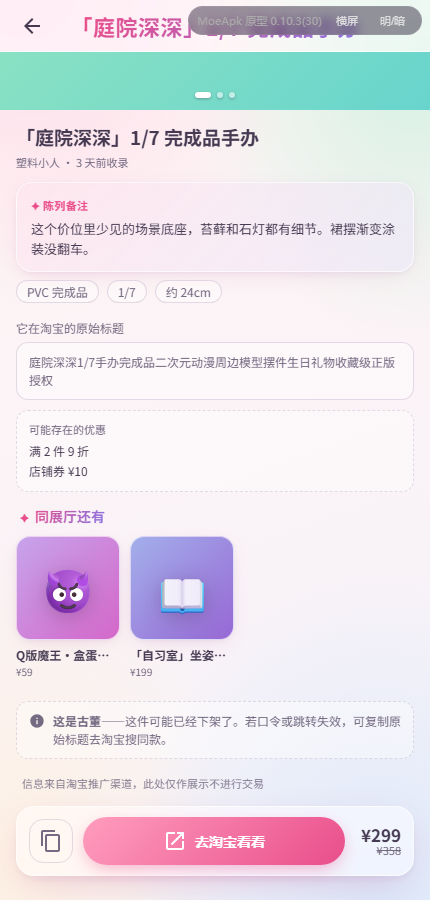
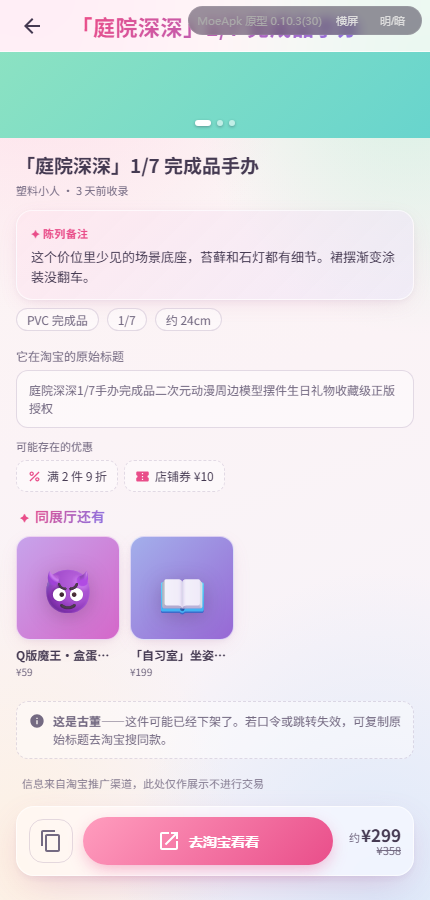
原型: 优惠条目改每条一张虚线小卡+SVG 图标示意（券=票券/折=百分号/减降补贴=降价标签/其它=通用优惠，新增四个 Material 图标）；CTA 价格加「约」前缀（联盟到手价为预估值，坦诚口径）；资源版本号 v=48；PROTO_COMMIT 更新至 ae87141；走查留档 shot-47 更新

diff --git a/index.html b/index.html
@@ -6,7 +6,7 @@
 <title>MoeApk App 原型</title>
 <meta name="theme-color" content="#E94E8A">
 <link rel="icon" type="image/png" href="assets/ic_launcher_fg.png">
-<link rel="stylesheet" href="css/app.css?v=47">
+<link rel="stylesheet" href="css/app.css?v=48">
 </head>
 <body>
 <div class="proto-bar">
@@ -19,30 +19,30 @@
 </div>
 
 <!-- 数据快照（内嵌为全局变量，file:// 直接可开） -->
-<script src="js/data/catalog.js?v=47"></script>
-<script src="js/data/open.js?v=47"></script>
-<script src="js/data/ai.js?v=47"></script>
-<script src="js/data/goods.js?v=47"></script>
+<script src="js/data/catalog.js?v=48"></script>
+<script src="js/data/open.js?v=48"></script>
+<script src="js/data/ai.js?v=48"></script>
+<script src="js/data/goods.js?v=48"></script>
 <!-- 核心层 -->
-<script src="js/icons.js?v=47"></script>
-<script src="js/theme.js?v=47"></script>
-<script src="js/store.js?v=47"></script>
-<script src="js/mock.js?v=47"></script>
-<script src="js/ui.js?v=47"></script>
+<script src="js/icons.js?v=48"></script>
+<script src="js/theme.js?v=48"></script>
+<script src="js/store.js?v=48"></script>
+<script src="js/mock.js?v=48"></script>
+<script src="js/ui.js?v=48"></script>
 <!-- 页面（与 Compose 源文件一一对照，见 README 对照表） -->
-<script src="js/screens/apk.js?v=47"></script>
-<script src="js/screens/goods.js?v=47"></script>
-<script src="js/screens/assets.js?v=47"></script>
-<script src="js/screens/ai.js?v=47"></script>
-<script src="js/screens/ai-llm.js?v=47"></script>
-<script src="js/screens/ai-diffusion.js?v=47"></script>
-<script src="js/screens/ai-tts.js?v=47"></script>
-<script src="js/screens/ai-models.js?v=47"></script>
-<script src="js/screens/download.js?v=47"></script>
-<script src="js/screens/mine.js?v=47"></script>
-<script src="js/screens/pages-account.js?v=47"></script>
-<script src="js/screens/about.js?v=47"></script>
-<script src="js/screens/wallpaper-dialog.js?v=47"></script>
+<script src="js/screens/apk.js?v=48"></script>
+<script src="js/screens/goods.js?v=48"></script>
+<script src="js/screens/assets.js?v=48"></script>
+<script src="js/screens/ai.js?v=48"></script>
+<script src="js/screens/ai-llm.js?v=48"></script>
+<script src="js/screens/ai-diffusion.js?v=48"></script>
+<script src="js/screens/ai-tts.js?v=48"></script>
+<script src="js/screens/ai-models.js?v=48"></script>
+<script src="js/screens/download.js?v=48"></script>
+<script src="js/screens/mine.js?v=48"></script>
+<script src="js/screens/pages-account.js?v=48"></script>
+<script src="js/screens/about.js?v=48"></script>
+<script src="js/screens/wallpaper-dialog.js?v=48"></script>
 <script>
   nav.applyHash();
 </script>

diff --git a/js/icons.js b/js/icons.js
@@ -62,7 +62,12 @@
     remove: 'M19 13H5v-2h14v2z',
     arrow_upward: 'M4 10.5l1.41-1.41L11 14.67V4h2v10.67l5.58-5.59L20 10.5l-8 8z',
     redeem: 'M20 6h-2.18c.11-.31.18-.65.18-1 0-1.66-1.34-3-3-3-1.05 0-1.96.54-2.5 1.35l-.5.67-.5-.68C10.96 2.54 10.05 2 9 2 7.34 2 6 3.34 6 5c0 .35.07.69.18 1H4c-1.11 0-1.99.89-1.99 2L2 19c0 1.11.89 2 2 2h16c1.11 0 2-.89 2-2V8c0-1.11-.89-2-2-2zm-5-2c.55 0 1 .45 1 1s-.45 1-1 1-1-.45-1-1 .45-1 1-1zM9 4c.55 0 1 .45 1 1s-.45 1-1 1-1-.45-1-1 .45-1 1-1zm11 15H4v-2h16v2zm0-5H4V8h5.08L7 10.83 8.62 12 11 8.76l1-1.36 1 1.36L15.38 12 17 10.83 14.92 8H20v6z',
-    open_in_new: 'M19 19H5V5h7V3H5c-1.11 0-2 .9-2 2v14c0 1.1.89 2 2 2h14c1.1 0 2-.9 2-2v-7h-2v7zM14 3v2h3.59l-9.83 9.83 1.41 1.41L19 6.41V10h2V3h-7z'
+    open_in_new: 'M19 19H5V5h7V3H5c-1.11 0-2 .9-2 2v14c0 1.1.89 2 2 2h14c1.1 0 2-.9 2-2v-7h-2v7zM14 3v2h3.59l-9.83 9.83 1.41 1.41L19 6.41V10h2V3h-7z',
+    // 优惠卡片图标（「可能存在的优惠」按条目类型取）
+    confirmation_number: 'M22 10V6c0-1.11-.9-2-2-2H4c-1.1 0-1.99.89-1.99 2v4c1.1 0 1.99.9 1.99 2s-.89 2-2 2v4c0 1.1.9 2 2 2h16c1.1 0 2-.9 2-2v-4c-1.1 0-2-.9-2-2s.9-2 2-2zm-9 7.5h-2v-2h2v2zm0-4.5h-2v-2h2v2zm0-4.5h-2v-2h2v2z',
+    percent: 'M7.5 11C9.43 11 11 9.43 11 7.5S9.43 4 7.5 4 4 5.57 4 7.5 5.57 11 7.5 11zm0-5C8.33 6 9 6.67 9 7.5S8.33 9 7.5 9 6 8.33 6 7.5 6.67 6 7.5 6zM4 18.59 18.59 4l1.41 1.41L5.41 20 4 18.59zM16.5 13c1.93 0 3.5 1.57 3.5 3.5s-1.57 3.5-3.5 3.5-3.5-1.57-3.5-3.5 1.57-3.5 3.5-3.5zm0 5c.83 0 1.5-.67 1.5-1.5s-.67-1.5-1.5-1.5-1.5.67-1.5 1.5.67 1.5 1.5 1.5z',
+    sell: 'M21.41 11.41l-8.83-8.83c-.37-.37-.88-.58-1.41-.58H4c-1.1 0-2 .9-2 2v7.17c0 .53.21 1.04.59 1.42l8.83 8.83c.37.37.88.58 1.41.58s1.04-.21 1.41-.58l7.17-7.17c.37-.38.58-.89.58-1.42s-.21-1.04-.59-1.42zM6.5 8C5.67 8 5 7.33 5 6.5S5.67 5 6.5 5 8 5.67 8 6.5 7.33 8 6.5 8z',
+    local_offer: 'M21.41 11.58l-9-9C12.05 2.22 11.55 2 11 2H4c-1.1 0-2 .9-2 2v7c0 .55.22 1.05.59 1.42l9 9c.36.36.86.58 1.41.58.55 0 1.05-.22 1.41-.59l7-7c.37-.36.59-.86.59-1.41 0-.55-.23-1.06-.59-1.42zM5.5 7C4.67 7 4 6.33 4 5.5S4.67 4 5.5 4 7 4.67 7 5.5 6.33 7 5.5 7z'
   };
   window.icon = function (name, cls) {
     const d = P[name] || P.info;

diff --git a/js/screens/goods.js b/js/screens/goods.js
@@ -232,10 +232,19 @@
       // 坦诚区：原始标题直接展示（提炼对照，不再折叠）
       h += '<div class="g-org-label">它在淘宝的原始标题</div>' +
         '<div class="g-org-text">' + esc(g.origin) + '</div>';
-      // 可能存在的优惠（联盟促销条目；券会过期/有门槛，弱化呈现不催促）
+      // 可能存在的优惠（联盟促销条目；券会过期/有门槛，弱化呈现不催促）：
+      // 每条目一张小卡片 + SVG 图标示意（券=票券 / 折=百分号 / 减降补贴=降价标签 / 其它=通用优惠）
       if (g.promos && g.promos.length) {
+        const pIcon = p => {
+          if (p.includes('券')) return 'confirmation_number';
+          if (p.includes('折')) return 'percent';
+          if (p.includes('减') || p.includes('降') || p.includes('补贴')) return 'sell';
+          return 'local_offer';
+        };
         h += '<div class="g-promo"><div class="g-promo-label">可能存在的优惠</div>' +
-          g.promos.map(p => '<div class="g-promo-row">' + esc(p) + '</div>').join('') + '</div>';
+          '<div class="g-promo-list">' +
+          g.promos.map(p => '<div class="g-promo-card">' + icon(pIcon(p)) + '<span>' + esc(p) + '</span></div>').join('') +
+          '</div></div>';
       }
       // 同展厅还有
       const rel = goodsByCat(g.cat).filter(x => x.id !== g.id).slice(0, 5);
@@ -258,7 +267,7 @@
       h += '<div class="g-cta">' +
         '<button class="icbtn g-cta-copy" data-a="goods-tpwd" data-arg="' + g.id + '" title="复制淘口令">' + icon('content_copy') + '</button>' +
         btn(buying ? '正在唤起淘宝…' : icon('open_in_new') + ' 去淘宝看看', 'goods-buy', g.id, 'flex' + (buying ? ' g-buying' : '')) +
-        '<div class="g-cta-price">' + fmtPrice(g.price) +
+        '<div class="g-cta-price"><span class="g-cta-about">约</span>' + fmtPrice(g.price) +
         (g.list ? '<s title="为淘宝标价">' + fmtPrice(g.list) + '</s>' : '') + '</div>' +
         '</div>';
       return h;

diff --git a/css/app.css b/css/app.css
@@ -1259,13 +1259,19 @@ body, .card, .li, .topbar, .navbar, .chip, .btn, .tbtn, .field-input,
   font-size: 12px; line-height: 18px; color: var(--on-surface-variant);
 }
 
-/* 可能存在的优惠（坦诚区；虚线卡片弱化呈现，不催促） */
-.g-promo {
-  margin-top: 10px; padding: 10px 12px; border-radius: 12px;
+/* 可能存在的优惠（坦诚区；每条目一张虚线小卡 + SVG 图标，弱化不催促） */
+.g-promo { margin-top: 10px; }
+.g-promo-label { font-size: 11px; color: var(--on-surface-variant); margin-bottom: 6px; }
+.g-promo-list { display: flex; flex-wrap: wrap; gap: 6px; }
+.g-promo-card {
+  display: inline-flex; align-items: center; gap: 5px;
+  padding: 6px 10px; border-radius: 10px;
   border: 1px dashed var(--outline-variant); background: var(--surface-container);
+  font-size: 12px; line-height: 18px; color: var(--on-surface);
 }
-.g-promo-label { font-size: 11px; color: var(--on-surface-variant); margin-bottom: 4px; }
-.g-promo-row { font-size: 12px; line-height: 20px; color: var(--on-surface); }
+.g-promo-card .ic { width: 15px; height: 15px; color: var(--primary); flex-shrink: 0; }
+/* CTA 价格的「约」（预估到手价，坦诚口径） */
+.g-cta-about { font-size: 11px; font-weight: 400; color: var(--on-surface-variant); margin-right: 1px; }
 
 /* 披露小字（详情页底部固定，合规 + 坦诚路线） */
 .g-legal { font-size: 11px; line-height: 17px; color: var(--on-surface-variant); padding: 16px 6px 4px; opacity: .85; }

diff --git a/js/screens/about.js b/js/screens/about.js
@@ -3,7 +3,7 @@
 // 原型版本约定：PROTO_COMMIT / PROTO_DATE 记录本原型自身的 git 提交，
 // 由维护者在每次提交前更新为当前 HEAD（提交者无需处理）。
 // App 关于页显示同形态的一行，值为其 UX 同步所依据的原型提交。
-const PROTO_COMMIT = '5d4d41d';
+const PROTO_COMMIT = 'ae87141';
 const PROTO_DATE = '2026-10-09';
 const PROTO_COMMIT_URL = 'https://github.com/Attect/moeapk-app-ux/commit/';
 

diff --git a/docs/design-notes.md b/docs/design-notes.md
@@ -80,7 +80,9 @@
 
 **详情页图片交互（2026-10-09）**：卡片→详情走**共享元素 FLIP 转场**（克隆封面从卡片位动画到 pager 位，返回时反向缩回；图片本已缓存，无缝无白闪——App 侧对应 Compose sharedBounds）；pager 横滑保留；**双指撑开（桌面双击）进全屏查看器**：横滑切换 + 页码指示，单击/左上 X/Esc 退出，长按（桌面右键）出菜单——保存到相册（App=MediaStore）/保存到素材（原型真实写入素材库）/分享（系统分享，回落复制文案）。查看器挂 `.phone` 而非 #app——对话框打开引发的 render 不会销毁它（对话框层级提到 z70 压过查看器 z60）。
 
-**「可能存在的优惠」卡片（2026-10-09）**：坦诚区原始标题下方，联盟促销路径条目（券带面额/满减/官方立减，≤3 条，裸券去重）——标题即告知不确定性（券会过期/有门槛/频道限定），虚线卡片弱化呈现、不催促，与「反促销」气质一致（是知情而非叫卖）。无促销条目不渲染。手动刷新时促销条目随价格一并更新。
+**「可能存在的优惠」卡片（2026-10-09）**：坦诚区原始标题下方，联盟促销路径条目（券带面额/满减/官方立减，≤3 条，裸券去重）——标题即告知不确定性（券会过期/有门槛/频道限定），**每条目一张虚线小卡 + SVG 图标示意**（券=票券/折=百分号/减降补贴=降价标签/其它=通用优惠），弱化呈现、不催促，与「反促销」气质一致（是知情而非叫卖）。无促销条目不渲染。手动刷新时促销条目随价格一并更新。
+
+**CTA 价格「约」前缀（2026-10-09）**：联盟到手价是预估值（多 SKU/券变化），CTA 行价格写「约 ¥299」，划线价小字随行——坦诚口径，不与淘宝页面精确对赌。
 
 **方形图裁剪策略（2026-10-09）**：淘宝商品图基本 1:1 方形，卡片却不全是方形——① 方形容器（详情 pager、新入荷卡）天然匹配不动；② 瀑布流比例收敛到 1/1、4/5、3/4（砍掉 4/3 横卡：方图上下大裁必切头）；③ 数据契约加 `focus`（top/center/bottom，AI 选封面时返回、后台可改）→ `object-position` 对齐，竖长商品（抱枕/长柄伞）cover 时保主体；④ 首页展厅墙宽扁槽（宽高比 >1.25，如 span4×128 ≈ 2:1）改 `contain` 完整呈现、两侧露渐变底——渐变底本来就是占位设计语言，风格统一且绝不切图。
 
